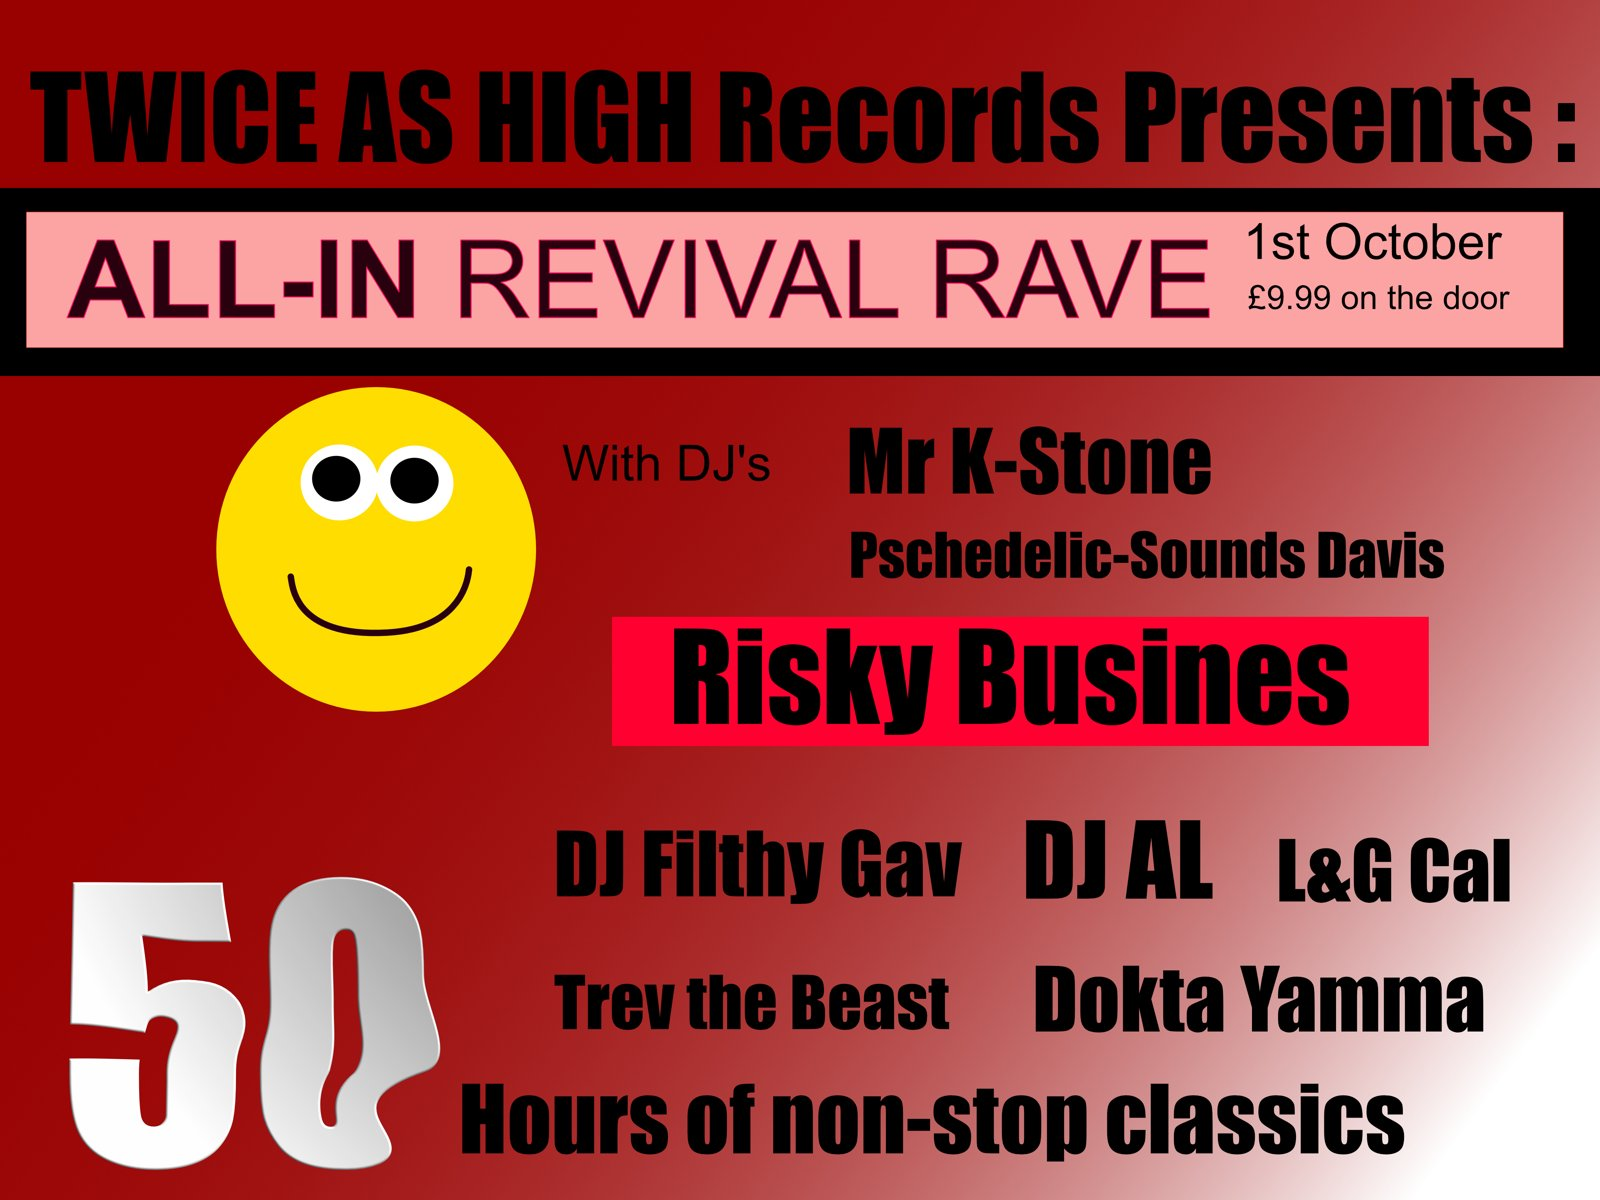
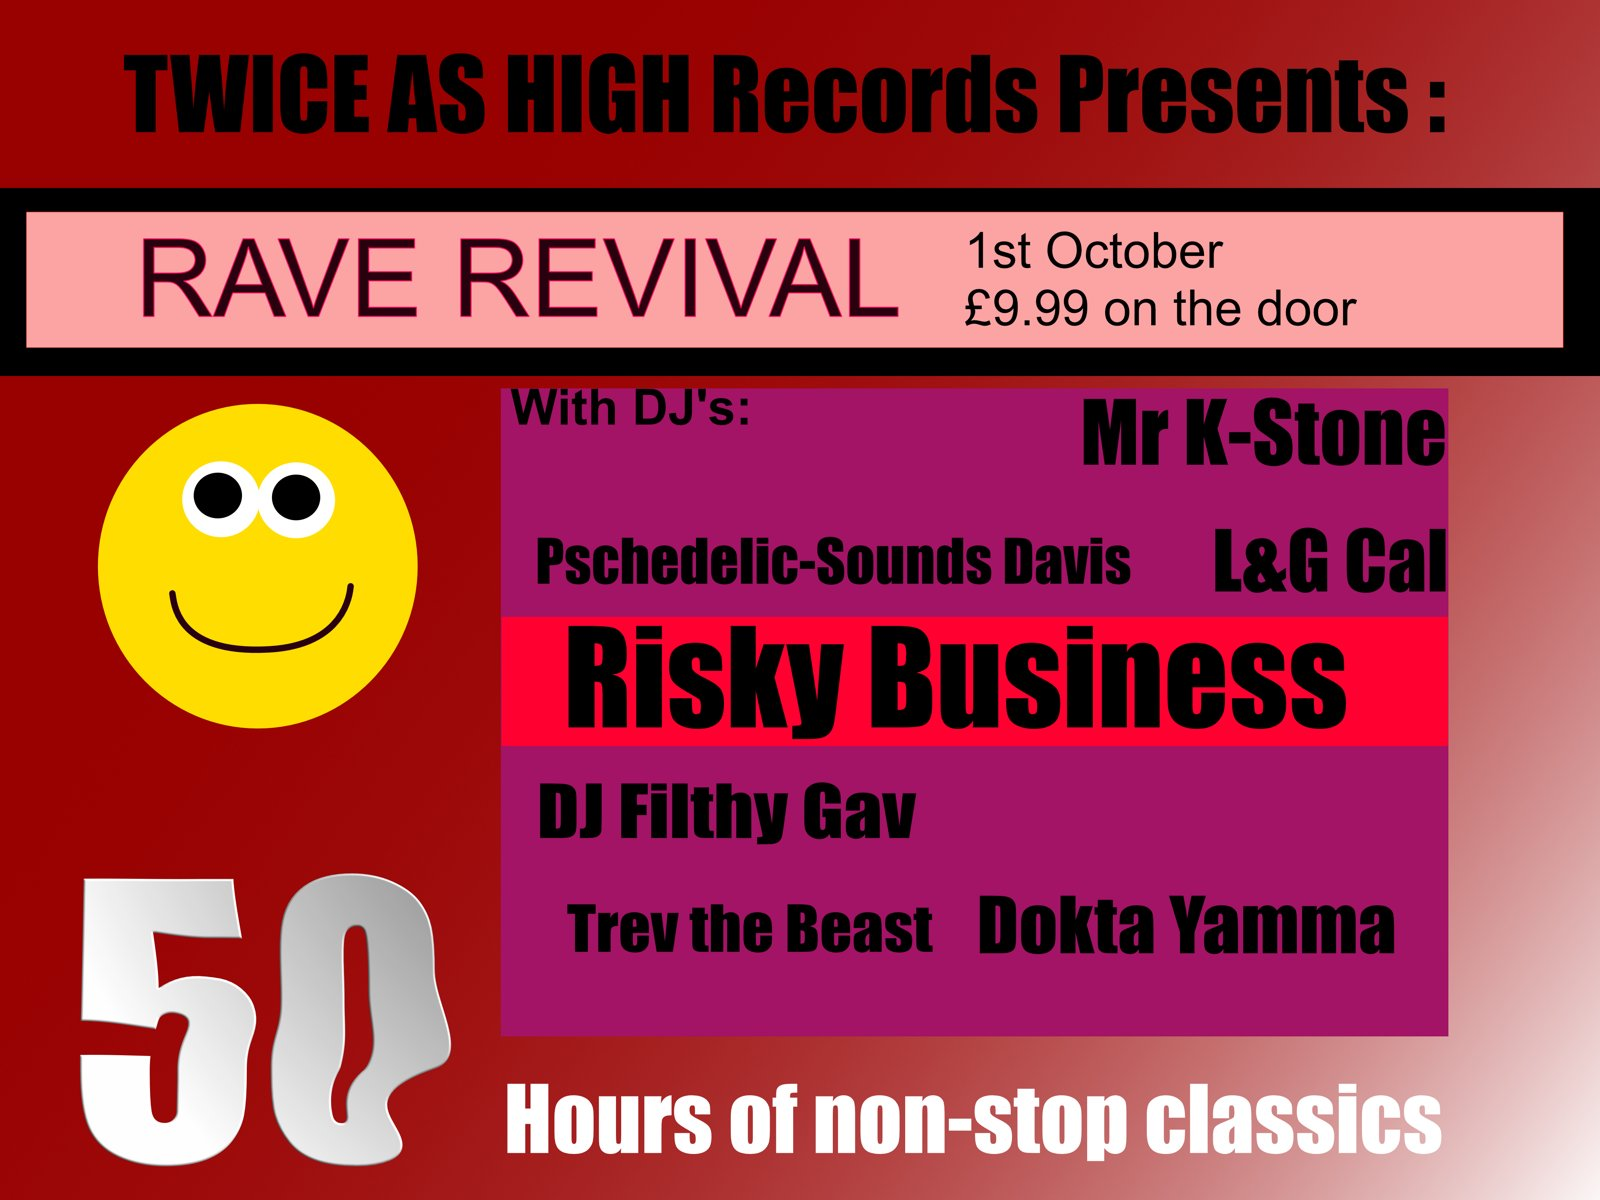
New flyer and smaller video

diff --git a/frontend/src/index.css b/frontend/src/index.css
@@ -212,6 +212,13 @@ body { overflow-x: hidden; }
 	.stub-note { grid-row: span 3; }
 }
 
+.wall video {
+	width: 100%;
+	max-height: 110px;
+	object-fit: contain;
+	background: #000;
+}
+
 /* Admin page (#admin) */
 .admin-h { color: var(--paper); font-size: 20px; margin: 28px 0 12px; }
 .admin-note { transform: none !important; }
@@ -225,3 +232,5 @@ body { overflow-x: hidden; }
 	border: 0; background: var(--ink); color: var(--paper); cursor: pointer; }
 .admin-actions .danger { background: var(--coral); }
 .refresh { margin-top: 8px; background: var(--gold); }
+
+
